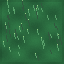
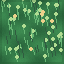
Fix invisible overworld entities and upgrade map graphics
Paint the world through MapCanvas._draw with large gold/type rings so
the player and wilds stay visible. Wilds can inhabit and walk paths,
tiles/UI art are richer, and the build bumps to 0.1.15.

diff --git a/tools/gen_phase_ab_art.py b/tools/gen_phase_ab_art.py
@@ -1,5 +1,5 @@
 #!/usr/bin/env python3
-"""High-quality Chimera Bond tiles + UI chrome (v0.1.13 graphics pass)."""
+"""Chimera Bond tiles + UI chrome — richer foliage/path pass (v0.1.15)."""
 from __future__ import annotations
 
 import math
@@ -44,39 +44,54 @@ def noise_layer(seed: int, a, b, scale: float = 0.12) -> Image.Image:
 
 
 def make_grass() -> Image.Image:
-    img = noise_layer(11, (34, 86, 52), (48, 120, 70), 0.18)
+    img = noise_layer(11, (40, 98, 58), (62, 140, 82), 0.16)
     d = ImageDraw.Draw(img)
     rnd = random.Random(42)
-    for _ in range(55):
+    for _ in range(80):
         x = rnd.randint(2, SIZE - 3)
-        y = rnd.randint(4, SIZE - 4)
-        h = rnd.randint(3, 7)
-        col = (70, 150, 90, 230) if rnd.random() > 0.4 else (28, 70, 42, 230)
+        y = rnd.randint(6, SIZE - 3)
+        h = rnd.randint(4, 10)
+        col = (90, 175, 105, 235) if rnd.random() > 0.35 else (30, 78, 48, 235)
         d.line([(x, y), (x - 1, y - h)], fill=col, width=1)
-        if rnd.random() > 0.6:
-            d.point((x - 1, y - h - 1), fill=(120, 190, 100, 200))
-    # soft vignette edge
+        if rnd.random() > 0.55:
+            d.ellipse([x - 2, y - h - 2, x + 1, y - h + 1], fill=(150, 210, 110, 190))
+    # soft flowers
+    for _ in range(6):
+        fx = rnd.randint(6, SIZE - 8)
+        fy = rnd.randint(10, SIZE - 10)
+        d.ellipse([fx, fy, fx + 3, fy + 3], fill=(230, 190, 90, 180))
     overlay = Image.new("RGBA", (SIZE, SIZE), (0, 0, 0, 0))
     od = ImageDraw.Draw(overlay)
-    od.rectangle([0, 0, SIZE - 1, SIZE - 1], outline=(20, 50, 30, 40), width=2)
+    od.rectangle([0, 0, SIZE - 1, SIZE - 1], outline=(24, 60, 34, 50), width=2)
     return Image.alpha_composite(img, overlay)
 
 
 def make_path() -> Image.Image:
-    img = noise_layer(7, (110, 88, 60), (145, 118, 82), 0.22)
+    img = noise_layer(7, (128, 104, 72), (168, 138, 98), 0.2)
     d = ImageDraw.Draw(img)
     rnd = random.Random(9)
-    for _ in range(18):
-        x = rnd.randint(4, SIZE - 8)
-        y = rnd.randint(4, SIZE - 8)
-        d.ellipse([x, y, x + rnd.randint(3, 7), y + rnd.randint(2, 5)], fill=(90, 70, 48, 160))
-    d.rectangle([0, 0, SIZE - 1, 2], fill=(80, 62, 42, 90))
-    d.rectangle([0, SIZE - 3, SIZE - 1, SIZE - 1], fill=(80, 62, 42, 90))
+    for _ in range(24):
+        x = rnd.randint(3, SIZE - 10)
+        y = rnd.randint(3, SIZE - 10)
+        d.ellipse(
+            [x, y, x + rnd.randint(4, 9), y + rnd.randint(3, 6)],
+            fill=(95, 74, 50, 170),
+        )
+    # packed dirt edge
+    d.rectangle([0, 0, SIZE - 1, 3], fill=(90, 70, 48, 110))
+    d.rectangle([0, SIZE - 4, SIZE - 1, SIZE - 1], fill=(90, 70, 48, 110))
+    d.rectangle([0, 0, 3, SIZE - 1], fill=(90, 70, 48, 70))
+    d.rectangle([SIZE - 4, 0, SIZE - 1, SIZE - 1], fill=(90, 70, 48, 70))
+    # occasional pebble highlight
+    for _ in range(5):
+        px = rnd.randint(8, SIZE - 10)
+        py = rnd.randint(8, SIZE - 10)
+        d.ellipse([px, py, px + 3, py + 2], fill=(200, 180, 140, 140))
     return img
 
 
 def make_wall() -> Image.Image:
-    img = noise_layer(3, (28, 32, 36), (48, 54, 60), 0.3)
+    img = noise_layer(3, (34, 38, 44), (58, 64, 72), 0.28)
     d = ImageDraw.Draw(img)
     for row, y in enumerate(range(2, SIZE, 14)):
         off = 7 if row % 2 else 0
@@ -84,116 +99,126 @@ def make_wall() -> Image.Image:
             d.rounded_rectangle(
                 [x, y, x + 14, y + 11],
                 radius=2,
-                outline=(18, 20, 22, 255),
-                fill=(40, 46, 52, 255),
+                outline=(22, 24, 28, 255),
+                fill=(48, 54, 62, 255),
             )
-            d.line([(x + 2, y + 2), (x + 10, y + 2)], fill=(70, 78, 86, 90), width=1)
+            d.line([(x + 2, y + 2), (x + 10, y + 2)], fill=(90, 100, 110, 100), width=1)
     return img
 
 
 def make_rock() -> Image.Image:
     img = Image.new("RGBA", (SIZE, SIZE), (0, 0, 0, 0))
     d = ImageDraw.Draw(img)
-    d.ellipse([8, 40, 56, 58], fill=(30, 40, 28, 110))
-    d.polygon([(12, 46), (30, 10), (52, 46), (44, 54), (18, 54)], fill=(108, 112, 118, 255))
-    d.polygon([(18, 40), (30, 14), (36, 40)], fill=(150, 154, 160, 255))
-    d.line([(20, 48), (38, 24)], fill=(70, 74, 80, 255), width=2)
-    d.ellipse([34, 28, 42, 34], fill=(170, 174, 180, 180))
+    d.ellipse([8, 40, 56, 58], fill=(30, 40, 28, 120))
+    d.polygon([(12, 46), (30, 8), (54, 46), (44, 54), (18, 54)], fill=(118, 122, 130, 255))
+    d.polygon([(18, 40), (30, 12), (38, 40)], fill=(168, 172, 180, 255))
+    d.line([(20, 48), (40, 22)], fill=(70, 74, 80, 255), width=2)
+    d.ellipse([34, 26, 44, 34], fill=(190, 194, 200, 190))
     return img
 
 
 def make_bridge() -> Image.Image:
-    img = new_img((70, 44, 24, 255))
+    img = new_img((78, 50, 28, 255))
     d = ImageDraw.Draw(img)
     for y in range(4, SIZE, 12):
-        d.rounded_rectangle([3, y, SIZE - 4, y + 9], radius=2, fill=(128, 86, 48, 255), outline=(60, 36, 18, 255))
-        d.line([(8, y + 3), (SIZE - 8, y + 3)], fill=(170, 120, 70, 120), width=1)
-        d.line([(10, y + 6), (SIZE - 10, y + 6)], fill=(50, 30, 14, 80), width=1)
-    d.rectangle([0, 0, 4, SIZE - 1], fill=(48, 28, 14, 255))
-    d.rectangle([SIZE - 5, 0, SIZE - 1, SIZE - 1], fill=(48, 28, 14, 255))
+        d.rounded_rectangle(
+            [3, y, SIZE - 4, y + 9],
+            radius=2,
+            fill=(142, 96, 54, 255),
+            outline=(60, 36, 18, 255),
+        )
+        d.line([(8, y + 3), (SIZE - 8, y + 3)], fill=(190, 140, 85, 130), width=1)
+        d.line([(10, y + 6), (SIZE - 10, y + 6)], fill=(50, 30, 14, 90), width=1)
+    d.rectangle([0, 0, 5, SIZE - 1], fill=(48, 28, 14, 255))
+    d.rectangle([SIZE - 6, 0, SIZE - 1, SIZE - 1], fill=(48, 28, 14, 255))
     return img
 
 
 def make_water(phase: int) -> Image.Image:
-    img = new_img((18, 72, 108, 255))
+    img = new_img((22, 86, 122, 255))
     pix = img.load()
     for y in range(SIZE):
         for x in range(SIZE):
             w = math.sin((x + phase * 4) * 0.22 + y * 0.15) + math.cos((y - phase) * 0.18)
             if w > 0.55:
-                pix[x, y] = (70, 150, 185, 255)
+                pix[x, y] = (86, 170, 205, 255)
             elif w > 0.1:
-                pix[x, y] = (36, 105, 145, 255)
+                pix[x, y] = (42, 118, 158, 255)
             elif w < -0.55:
-                pix[x, y] = (10, 48, 78, 255)
+                pix[x, y] = (12, 54, 86, 255)
     d = ImageDraw.Draw(img)
     yy = 18 + (phase % 4) * 3
-    d.arc([6, yy - 8, 58, yy + 10], 200, 340, fill=(190, 230, 245, 110), width=2)
+    d.arc([6, yy - 8, 58, yy + 10], 200, 340, fill=(210, 240, 250, 130), width=2)
     return img
 
 
 def make_lava(phase: int) -> Image.Image:
-    img = new_img((130, 28, 8, 255))
+    img = new_img((140, 32, 10, 255))
     pix = img.load()
     for y in range(SIZE):
         for x in range(SIZE):
             n = math.sin(x * 0.28 + phase * 0.9) * math.cos(y * 0.24 - phase * 0.6)
             if n > 0.45:
-                pix[x, y] = (255, 170, 50, 255)
+                pix[x, y] = (255, 180, 55, 255)
             elif n > 0.05:
-                pix[x, y] = (220, 90, 20, 255)
+                pix[x, y] = (230, 98, 24, 255)
             elif n < -0.5:
-                pix[x, y] = (70, 12, 6, 255)
+                pix[x, y] = (78, 14, 8, 255)
     d = ImageDraw.Draw(img)
-    d.ellipse([20 + phase, 18, 36 + phase, 34], fill=(255, 220, 120, 140))
+    d.ellipse([20 + phase, 18, 36 + phase, 34], fill=(255, 230, 130, 150))
     return img
 
 
 def make_void(phase: int) -> Image.Image:
-    img = new_img((8, 6, 16, 255))
+    img = new_img((10, 8, 20, 255))
     d = ImageDraw.Draw(img)
     cx = cy = 32
     for i, r in enumerate([26, 18, 10, 4]):
-        col = (50 + i * 20, 30 + i * 10, 90 + i * 25, 160 - i * 20)
+        col = (55 + i * 22, 35 + i * 12, 100 + i * 28, 170 - i * 22)
         d.ellipse([cx - r, cy - r, cx + r, cy + r], outline=col, width=2)
     for a in range(0, 360, 30):
         rad = math.radians(a + phase * 10)
         d.line(
             [(cx, cy), (cx + int(math.cos(rad) * 28), cy + int(math.sin(rad) * 28))],
-            fill=(70, 50, 120, 70),
+            fill=(80, 55, 130, 80),
             width=1,
         )
-    d.ellipse([28, 28, 36, 36], fill=(120, 90, 200, 220))
+    d.ellipse([28, 28, 36, 36], fill=(140, 105, 220, 230))
     return img
 
 
 def make_camp() -> Image.Image:
     img = make_path()
     d = ImageDraw.Draw(img)
-    d.ellipse([14, 28, 50, 54], fill=(70, 52, 34, 255), outline=(40, 28, 18, 255))
-    d.polygon([(32, 10), (22, 34), (42, 34)], fill=(230, 110, 40, 255))
-    d.polygon([(32, 4), (26, 24), (38, 24)], fill=(255, 210, 90, 230))
-    d.ellipse([28, 36, 36, 44], fill=(255, 160, 60, 200))
+    d.ellipse([12, 30, 52, 56], fill=(70, 52, 34, 255), outline=(40, 28, 18, 255))
+    d.polygon([(32, 8), (18, 36), (46, 36)], fill=(235, 120, 42, 255))
+    d.polygon([(32, 2), (24, 26), (40, 26)], fill=(255, 220, 100, 235))
+    d.ellipse([27, 38, 37, 48], fill=(255, 170, 70, 210))
+    # log seats
+    d.rounded_rectangle([8, 48, 22, 56], radius=2, fill=(90, 60, 35, 230))
+    d.rounded_rectangle([42, 48, 56, 56], radius=2, fill=(90, 60, 35, 230))
     return img
 
 
 def make_exit() -> Image.Image:
     img = make_path()
     d = ImageDraw.Draw(img)
-    d.ellipse([10, 10, 54, 54], outline=(80, 170, 230, 255), width=4)
-    d.ellipse([18, 18, 46, 46], fill=(30, 90, 150, 210))
-    d.ellipse([26, 26, 38, 38], fill=(180, 235, 255, 240))
-    d.arc([14, 14, 50, 50], 200, 320, fill=(200, 240, 255, 120), width=2)
+    d.ellipse([8, 8, 56, 56], outline=(90, 185, 240, 255), width=4)
+    d.ellipse([16, 16, 48, 48], fill=(28, 95, 155, 220))
+    d.ellipse([24, 24, 40, 40], fill=(190, 240, 255, 245))
+    d.arc([12, 12, 52, 52], 200, 320, fill=(210, 245, 255, 140), width=2)
     return img
 
 
 def make_boss() -> Image.Image:
     img = make_path()
     d = ImageDraw.Draw(img)
-    d.rounded_rectangle([12, 18, 52, 54], radius=4, fill=(110, 28, 38, 255), outline=(50, 10, 16, 255), width=2)
-    d.polygon([(32, 4), (10, 22), (54, 22)], fill=(150, 40, 50, 255))
-    d.rectangle([28, 28, 36, 46], fill=(255, 90, 80, 220))
-    d.ellipse([24, 24, 40, 32], fill=(255, 140, 120, 160))
+    d.rounded_rectangle(
+        [10, 16, 54, 56], radius=4, fill=(120, 30, 40, 255), outline=(50, 10, 16, 255), width=2
+    )
+    d.polygon([(32, 2), (8, 22), (56, 22)], fill=(160, 42, 52, 255))
+    d.rectangle([27, 28, 37, 48], fill=(255, 95, 85, 230))
+    d.ellipse([22, 22, 42, 34], fill=(255, 150, 130, 170))
     return img
 
 
@@ -202,16 +227,34 @@ def make_obelisk() -> Image.Image:
     img = Image.new("RGBA", (SIZE, SIZE), (0, 0, 0, 0))
     img.paste(base, (0, 0))
     d = ImageDraw.Draw(img)
-    d.ellipse([16, 46, 48, 58], fill=(40, 50, 40, 100))
-    d.polygon([(32, 2), (18, 18), (46, 18)], fill=(150, 160, 175, 255))
-    d.rectangle([20, 18, 44, 52], fill=(100, 110, 125, 255), outline=(60, 68, 80, 255), width=2)
-    d.rectangle([28, 24, 36, 42], fill=(80, 220, 255, 210))
-    d.ellipse([27, 18, 37, 28], fill=(190, 245, 255, 230))
+    d.ellipse([14, 46, 50, 60], fill=(40, 50, 40, 110))
+    d.polygon([(32, 0), (16, 18), (48, 18)], fill=(165, 175, 190, 255))
+    d.rectangle([18, 18, 46, 54], fill=(108, 118, 135, 255), outline=(60, 68, 80, 255), width=2)
+    d.rectangle([27, 24, 37, 44], fill=(90, 230, 255, 220))
+    d.ellipse([26, 16, 38, 28], fill=(200, 250, 255, 235))
     return img
 
 
 def make_empty() -> Image.Image:
-    return noise_layer(1, (10, 14, 16), (18, 24, 28), 0.4)
+    """Dense underbrush / canopy — readable dark green, not black void."""
+    img = noise_layer(21, (18, 42, 28), (32, 68, 42), 0.22)
+    d = ImageDraw.Draw(img)
+    rnd = random.Random(77)
+    for _ in range(28):
+        x = rnd.randint(0, SIZE - 12)
+        y = rnd.randint(0, SIZE - 12)
+        r = rnd.randint(5, 11)
+        col = (24, 58, 36, 210) if rnd.random() > 0.4 else (14, 36, 24, 220)
+        d.ellipse([x, y, x + r * 2, y + r * 2], fill=col)
+    for _ in range(40):
+        x = rnd.randint(2, SIZE - 4)
+        y = rnd.randint(2, SIZE - 4)
+        d.point((x, y), fill=(70, 120, 80, 160))
+    # slight vignette so paths read clearly against brush
+    overlay = Image.new("RGBA", (SIZE, SIZE), (0, 0, 0, 0))
+    od = ImageDraw.Draw(overlay)
+    od.rectangle([0, 0, SIZE - 1, SIZE - 1], outline=(8, 20, 12, 70), width=3)
+    return Image.alpha_composite(img, overlay)
 
 
 def button(w, h, fill, edge) -> Image.Image:
@@ -225,7 +268,9 @@ def button(w, h, fill, edge) -> Image.Image:
 def panel(w, h) -> Image.Image:
     img = Image.new("RGBA", (w, h), (0, 0, 0, 0))
     d = ImageDraw.Draw(img)
-    d.rounded_rectangle([0, 0, w - 1, h - 1], radius=18, fill=(14, 26, 24, 235), outline=(90, 170, 140, 210), width=3)
+    d.rounded_rectangle(
+        [0, 0, w - 1, h - 1], radius=18, fill=(14, 26, 24, 235), outline=(90, 170, 140, 210), width=3
+    )
     d.rounded_rectangle([6, 6, w - 7, h - 7], radius=14, outline=(40, 80, 65, 140), width=2)
     return img
 
@@ -255,38 +300,37 @@ def boot_bg() -> Image.Image:
     d = ImageDraw.Draw(img)
     for y in range(h):
         t = y / (h - 1)
-        # deep moss → teal night
         col = (
-            int(10 + t * 8),
-            int(36 + (1 - t) * 28),
-            int(28 + t * 22),
+            int(8 + t * 10),
+            int(32 + (1 - t) * 34),
+            int(26 + t * 24),
             255,
         )
         d.line([(0, y), (w - 1, y)], fill=col)
-    # bioluminescent orbs
     for cx, cy, r, a in [
-        (360, 420, 220, 45),
-        (180, 900, 140, 30),
-        (540, 780, 120, 28),
-        (360, 200, 90, 35),
+        (360, 420, 240, 50),
+        (160, 920, 150, 34),
+        (560, 780, 130, 30),
+        (360, 180, 100, 40),
     ]:
         for rad in range(r, 10, -10):
             alpha = max(0, a - (r - rad) // 6)
-            d.ellipse([cx - rad, cy - rad, cx + rad, cy + rad], outline=(70, 180, 140, alpha))
-    # ground mist band
+            d.ellipse([cx - rad, cy - rad, cx + rad, cy + rad], outline=(70, 190, 145, alpha))
     mist = Image.new("RGBA", (w, h), (0, 0, 0, 0))
     md = ImageDraw.Draw(mist)
-    md.rectangle([0, 980, w, h], fill=(40, 90, 70, 50))
-    mist = mist.filter(ImageFilter.GaussianBlur(28))
+    md.rectangle([0, 960, w, h], fill=(40, 100, 75, 55))
+    mist = mist.filter(ImageFilter.GaussianBlur(30))
     return Image.alpha_composite(img, mist)
 
 
 def hud_strip() -> Image.Image:
     img = Image.new("RGBA", (720, 84), (0, 0, 0, 0))
     d = ImageDraw.Draw(img)
-    d.rounded_rectangle([0, 0, 719, 83], radius=16, fill=(10, 22, 20, 220), outline=(90, 170, 140, 200), width=3)
-    d.rounded_rectangle([6, 6, 713, 77], radius=12, outline=(40, 80, 65, 100), width=1)
-    d.line([(20, 4), (200, 4)], fill=(160, 230, 190, 60), width=2)
+    d.rounded_rectangle(
+        [0, 0, 719, 83], radius=16, fill=(10, 22, 20, 225), outline=(100, 185, 150, 210), width=3
+    )
+    d.rounded_rectangle([6, 6, 713, 77], radius=12, outline=(40, 80, 65, 110), width=1)
+    d.line([(20, 4), (220, 4)], fill=(170, 240, 200, 70), width=2)
     return img
 
 
